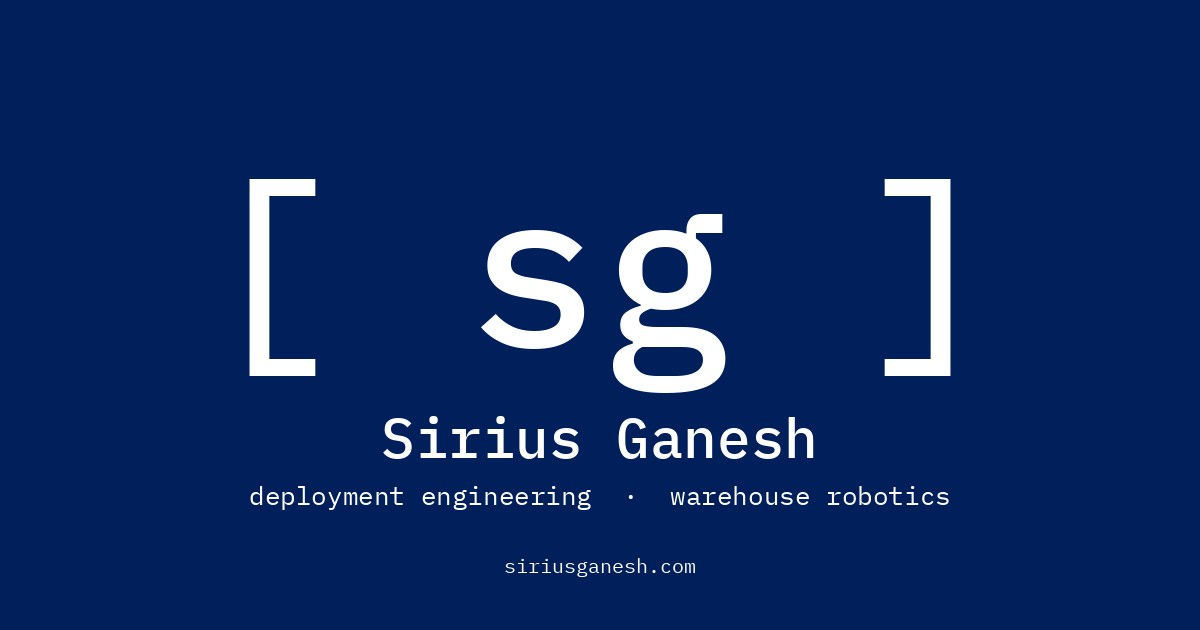
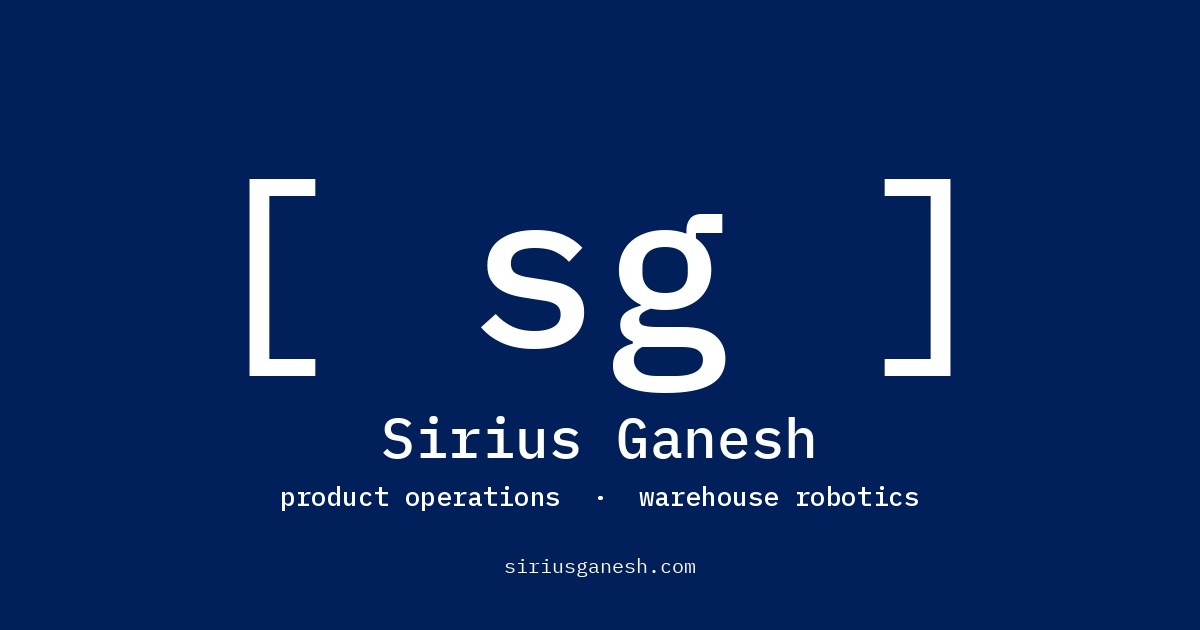
Update role positioning to product operations (#130)
* content: update role positioning to product operations

Hero overline and lede, page title, and meta description now read
product operations instead of deployment engineering. Contact CTA
rewritten around field operations, NPI, and customer success.
Social card subtitle regenerated to match.

Experience block is unchanged in this commit. The director entry and
its bullets land in a follow-up commit on this branch.

* content: add Director, Product Operations experience entry

Splits the Pickle Robot block into a Director entry dated SEP 2026 to
present and a Manager entry dated JAN 2025 to AUG 2026. The company
banner moves to the top entry.

Director bullets are not written yet. index.astro now skips the <ul>
when an entry has no bullets, so the empty entry emits no empty list.

* content: rewrite hero lede around scope and P&L ownership

Drops the fixed headcount and site count from the lede, which went
stale on every hire and every new site and had to be kept in step with
the resume. Replaces them with the scope of the role and P&L and
unit-economics ownership. Leadership capability item is now
P&L & unit economics.

Changed region(s): [[0.5242, 0.754, 0.8017, 0.8143], [0.2158, 0.754, 0.4933, 0.8143]]

diff --git a/src/data/content.ts b/src/data/content.ts
@@ -7,7 +7,7 @@
 
 export const profile = {
   name: "Sirius Ganesh",
-  overline: "Deployment Engineering · Warehouse Robotics · AMR Fleets",
+  overline: "Product Operations · Warehouse Robotics · AMR Fleets",
   location: "Denver, CO",
   email: "siriusganesh@outlook.com",
   linkedin: "https://www.linkedin.com/in/siriusganesh/",
@@ -17,10 +17,12 @@ export const profile = {
 
 // The hero paragraph. Inline HTML allowed.
 export const ledeHtml = `
-  Deployment engineering leader scaling warehouse robotics from
+  Product operations leader scaling warehouse robotics from
   <strong>startup pilot</strong> to <strong>enterprise production</strong>.
-  Currently managing a team of 7 deployment engineers across 9 customer sites at
-  <a href="https://www.picklerobot.com" target="_blank" rel="noreferrer">Pickle Robot</a>,
+  Now leading product operations at
+  <a href="https://www.picklerobot.com" target="_blank" rel="noreferrer">Pickle Robot</a>
+  across deployment, new product introduction, and customer success, with
+  <strong>P&amp;L and unit-economics</strong> ownership,
   after scaling <strong>$40M+</strong> in AMR fleet deployments at Geek+.
   I bridge deep technical ownership — computer vision, fleet systems, networking —
   with the operational discipline to deliver automation programs reliably.
@@ -44,16 +46,24 @@ export type ExperienceEntry = {
 
 export const experience: ExperienceEntry[] = [
   {
-    role: "Manager, Deployment Engineering",
+    role: "Director, Product Operations",
     org: "Pickle Robot Company",
     location: "Denver, CO",
-    when: "JAN 2025 — PRESENT",
+    when: "SEP 2026 — PRESENT",
     image: {
       src: "/images/pickle-banner.webp",
       alt: "Pickle Robot — Physical AI for Supply Chain Automation (gripper)",
       srcset: "/images/pickle-banner-mobile.webp 700w, /images/pickle-banner-1000w.webp 1000w, /images/pickle-banner.webp 1584w",
       sizes: "(max-width: 720px) 400px, 760px",
     },
+    // Bullets pending. index.astro skips the <ul> while this is empty.
+    bulletsHtml: [],
+  },
+  {
+    role: "Manager, Deployment Engineering",
+    org: "Pickle Robot Company",
+    location: "Denver, CO",
+    when: "JAN 2025 — AUG 2026",
     bulletsHtml: [
       "Manage a team of 7 deployment engineers — hiring, performance, and development — across 9 active customer sites running autonomous truck-unloading robots.",
       "Reduced per-site deployment time from 2 weeks to 2 days by standardizing deployment playbooks, networking infrastructure protocols, and customer training programs.",
@@ -202,7 +212,7 @@ export const capabilities: CapabilityGroup[] = [
     items: [
       "Cross-functional team management",
       "Multi-site program ownership",
-      "P&L & deployment economics",
+      "P&L & unit economics",
       "Executive & stakeholder comms",
       "Process standardization",
       "Vendor & partner management",
@@ -329,9 +339,9 @@ export const contactHtml = `
   Best way to reach me is
   <a href="mailto:siriusganesh@outlook.com">siriusganesh@outlook.com</a>.
   For recruiter outreach, <a href="https://www.linkedin.com/in/siriusganesh/" target="_blank" rel="noreferrer">LinkedIn</a>
-  is fine. Open to conversations about <strong>director-level deployment, field
-  engineering, and robotics operations</strong> — especially at companies scaling
-  from pilot to production.
+  is fine. Always up for conversations about <strong>scaling field operations,
+  new product introduction, and customer success in robotics</strong>, especially
+  at companies moving from pilot to production.
   <br /><br />
   <a href="/Resume_SG.pdf" target="_blank" rel="noreferrer">Download resume (PDF) ↗</a>
 `;
